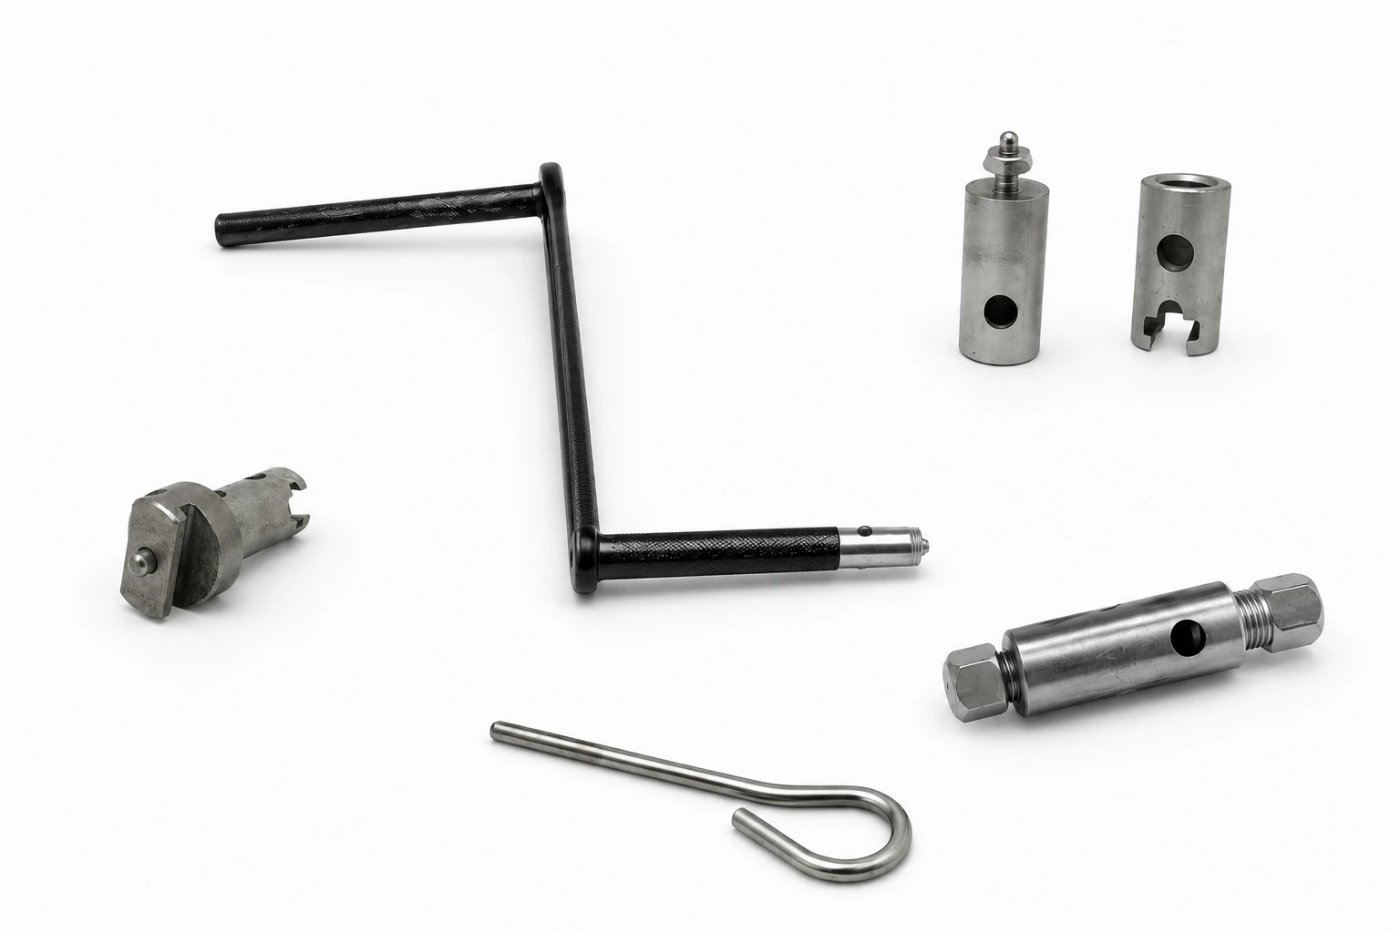
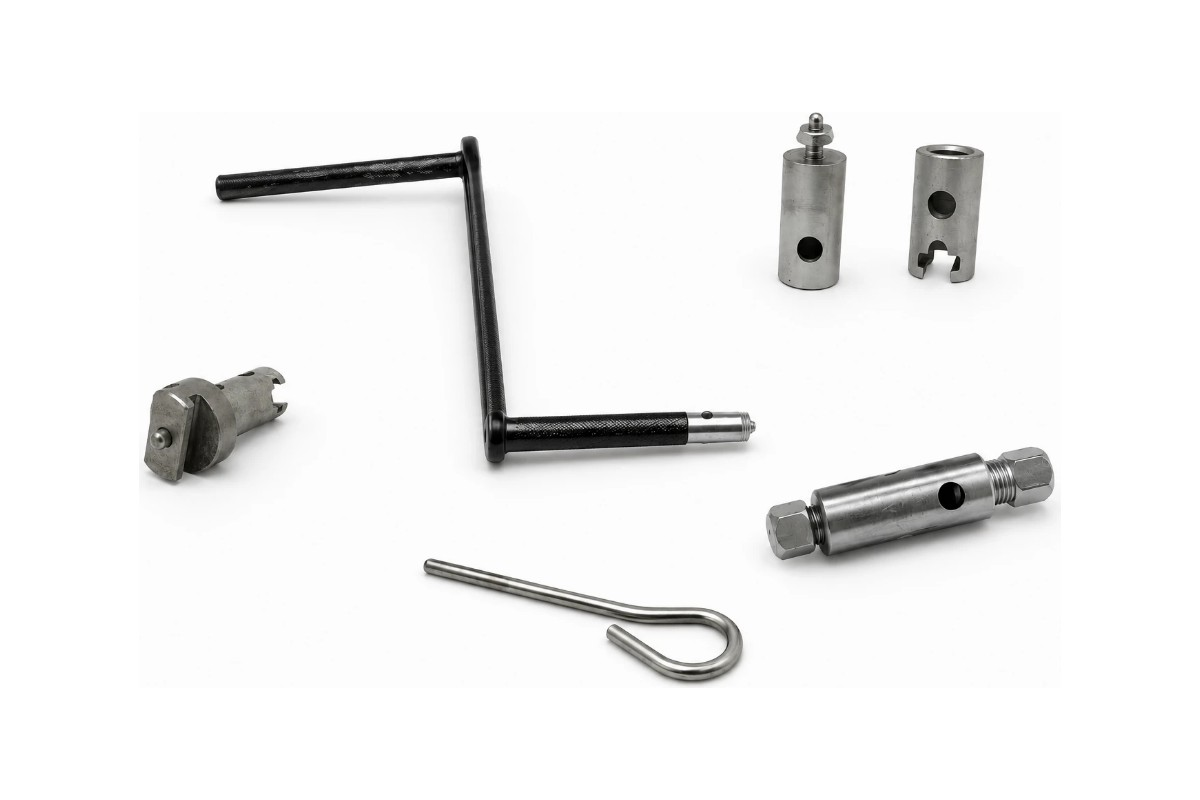
Melhorias: WhatsApp com mensagem pronta, barra de topo e fotos padronizadas
- Todos os links de WhatsApp abrem com mensagem pré-preenchida
- Adiciona barra de topo (telefone, horário, e-mail) que recolhe ao rolar;
  oculta no mobile
- Padroniza o enquadramento das 4 fotos de produto (recorte por conteúdo e
  recentralização em canvas uniforme)
- Aplica também nas páginas de produto

Claude-Session: https://claude.ai/code/session_01BUUK4AvKAcJuzsJsvTyh2a

diff --git a/Seção_Varetas em aço cromo-silício.html b/Seção_Varetas em aço cromo-silício.html
@@ -34,6 +34,17 @@
 
     <!-- HEADER -->
     <header id="header">
+        <div class="top-bar">
+            <div class="container top-bar-inner">
+                <div class="top-bar-info">
+                    <a href="tel:+5511958462251"><i class="fa-solid fa-phone"></i> (11) 95846-2251</a>
+                    <span><i class="fa-solid fa-clock"></i> Seg a Sex, 8h às 18h</span>
+                </div>
+                <div class="top-bar-info">
+                    <a href="mailto:contato@varetasbrasil.com.br"><i class="fa-solid fa-envelope"></i> contato@varetasbrasil.com.br</a>
+                </div>
+            </div>
+        </div>
         <div class="container header-container">
             <a href="index.html#home" class="logo">
                 <img src="img/logo.png" alt="Logo Varetas Brasil">
@@ -49,7 +60,7 @@
                 </ul>
             </nav>
             <div class="header-cta">
-                <a href="https://wa.me/5511958462251" target="_blank" rel="noopener" class="btn btn-primary">
+                <a href="https://wa.me/5511958462251?text=Ol%C3%A1!%20Vim%20pelo%20site%20da%20Varetas%20Brasil%20e%20gostaria%20de%20mais%20informa%C3%A7%C3%B5es." target="_blank" rel="noopener" class="btn btn-primary">
                     <i class="fa-brands fa-whatsapp"></i> Falar no WhatsApp
                 </a>
                 <div class="mobile-toggle" id="mobile-toggle">
@@ -85,7 +96,7 @@
                     <li><i class="fa-solid fa-circle-check"></i> Compatíveis com nossas ponteiras e acessórios</li>
                 </ul>
                 <div class="product-actions">
-                    <a href="https://wa.me/5511958462251" target="_blank" rel="noopener" class="btn btn-primary">
+                    <a href="https://wa.me/5511958462251?text=Ol%C3%A1!%20Vim%20pelo%20site%20da%20Varetas%20Brasil%20e%20gostaria%20de%20mais%20informa%C3%A7%C3%B5es." target="_blank" rel="noopener" class="btn btn-primary">
                         <i class="fa-brands fa-whatsapp"></i> Solicitar orçamento
                     </a>
                     <a href="index.html#produtos" class="btn btn-outline">
@@ -130,7 +141,7 @@
         <div class="container">
             <h2 class="reveal">Precisa de mais informações?</h2>
             <p class="reveal">Fale com nossa equipe técnica e receba orientação para escolher a melhor solução para o seu serviço.</p>
-            <a href="https://wa.me/5511958462251" target="_blank" rel="noopener" class="btn btn-primary reveal">
+            <a href="https://wa.me/5511958462251?text=Ol%C3%A1!%20Vim%20pelo%20site%20da%20Varetas%20Brasil%20e%20gostaria%20de%20mais%20informa%C3%A7%C3%B5es." target="_blank" rel="noopener" class="btn btn-primary reveal">
                 <i class="fa-brands fa-whatsapp"></i> Falar no WhatsApp
             </a>
         </div>
@@ -174,7 +185,7 @@
                     <div class="footer-logo">Varetas <span>Brasil</span></div>
                     <p class="footer-about">Soluções profissionais para desobstrução e saneamento com qualidade, resistência e confiança que você pode contar.</p>
                     <div class="social-icons">
-                        <a href="https://wa.me/5511958462251" target="_blank" rel="noopener" aria-label="WhatsApp"><i class="fa-brands fa-whatsapp"></i></a>
+                        <a href="https://wa.me/5511958462251?text=Ol%C3%A1!%20Vim%20pelo%20site%20da%20Varetas%20Brasil%20e%20gostaria%20de%20mais%20informa%C3%A7%C3%B5es." target="_blank" rel="noopener" aria-label="WhatsApp"><i class="fa-brands fa-whatsapp"></i></a>
                         <a href="#" aria-label="Instagram"><i class="fa-brands fa-instagram"></i></a>
                         <a href="#" aria-label="Facebook"><i class="fa-brands fa-facebook-f"></i></a>
                         <a href="#" aria-label="LinkedIn"><i class="fa-brands fa-linkedin-in"></i></a>
@@ -204,7 +215,7 @@
                     <h4>Fale Conosco</h4>
                     <div class="footer-contact-item"><i class="fa-solid fa-phone"></i> (11) 95846-2251</div>
                     <div class="footer-contact-item"><i class="fa-solid fa-envelope"></i> contato@varetasbrasil.com.br</div>
-                    <a href="https://wa.me/5511958462251" target="_blank" rel="noopener" class="btn btn-primary" style="margin-top:10px;">
+                    <a href="https://wa.me/5511958462251?text=Ol%C3%A1!%20Vim%20pelo%20site%20da%20Varetas%20Brasil%20e%20gostaria%20de%20mais%20informa%C3%A7%C3%B5es." target="_blank" rel="noopener" class="btn btn-primary" style="margin-top:10px;">
                         <i class="fa-brands fa-whatsapp"></i> Falar no WhatsApp
                     </a>
                 </div>

diff --git a/Seção_Kit completo.html b/Seção_Kit completo.html
@@ -34,6 +34,17 @@
 
     <!-- HEADER -->
     <header id="header">
+        <div class="top-bar">
+            <div class="container top-bar-inner">
+                <div class="top-bar-info">
+                    <a href="tel:+5511958462251"><i class="fa-solid fa-phone"></i> (11) 95846-2251</a>
+                    <span><i class="fa-solid fa-clock"></i> Seg a Sex, 8h às 18h</span>
+                </div>
+                <div class="top-bar-info">
+                    <a href="mailto:contato@varetasbrasil.com.br"><i class="fa-solid fa-envelope"></i> contato@varetasbrasil.com.br</a>
+                </div>
+            </div>
+        </div>
         <div class="container header-container">
             <a href="index.html#home" class="logo">
                 <img src="img/logo.png" alt="Logo Varetas Brasil">
@@ -49,7 +60,7 @@
                 </ul>
             </nav>
             <div class="header-cta">
-                <a href="https://wa.me/5511958462251" target="_blank" rel="noopener" class="btn btn-primary">
+                <a href="https://wa.me/5511958462251?text=Ol%C3%A1!%20Vim%20pelo%20site%20da%20Varetas%20Brasil%20e%20gostaria%20de%20mais%20informa%C3%A7%C3%B5es." target="_blank" rel="noopener" class="btn btn-primary">
                     <i class="fa-brands fa-whatsapp"></i> Falar no WhatsApp
                 </a>
                 <div class="mobile-toggle" id="mobile-toggle">
@@ -85,7 +96,7 @@
                     <li><i class="fa-solid fa-circle-check"></i> Melhor custo-benefício para o profissional</li>
                 </ul>
                 <div class="product-actions">
-                    <a href="https://wa.me/5511958462251" target="_blank" rel="noopener" class="btn btn-primary">
+                    <a href="https://wa.me/5511958462251?text=Ol%C3%A1!%20Vim%20pelo%20site%20da%20Varetas%20Brasil%20e%20gostaria%20de%20mais%20informa%C3%A7%C3%B5es." target="_blank" rel="noopener" class="btn btn-primary">
                         <i class="fa-brands fa-whatsapp"></i> Solicitar orçamento
                     </a>
                     <a href="index.html#produtos" class="btn btn-outline">
@@ -130,7 +141,7 @@
         <div class="container">
             <h2 class="reveal">Precisa de mais informações?</h2>
             <p class="reveal">Fale com nossa equipe técnica e receba orientação para escolher a melhor solução para o seu serviço.</p>
-            <a href="https://wa.me/5511958462251" target="_blank" rel="noopener" class="btn btn-primary reveal">
+            <a href="https://wa.me/5511958462251?text=Ol%C3%A1!%20Vim%20pelo%20site%20da%20Varetas%20Brasil%20e%20gostaria%20de%20mais%20informa%C3%A7%C3%B5es." target="_blank" rel="noopener" class="btn btn-primary reveal">
                 <i class="fa-brands fa-whatsapp"></i> Falar no WhatsApp
             </a>
         </div>
@@ -174,7 +185,7 @@
                     <div class="footer-logo">Varetas <span>Brasil</span></div>
                     <p class="footer-about">Soluções profissionais para desobstrução e saneamento com qualidade, resistência e confiança que você pode contar.</p>
                     <div class="social-icons">
-                        <a href="https://wa.me/5511958462251" target="_blank" rel="noopener" aria-label="WhatsApp"><i class="fa-brands fa-whatsapp"></i></a>
+                        <a href="https://wa.me/5511958462251?text=Ol%C3%A1!%20Vim%20pelo%20site%20da%20Varetas%20Brasil%20e%20gostaria%20de%20mais%20informa%C3%A7%C3%B5es." target="_blank" rel="noopener" aria-label="WhatsApp"><i class="fa-brands fa-whatsapp"></i></a>
                         <a href="#" aria-label="Instagram"><i class="fa-brands fa-instagram"></i></a>
                         <a href="#" aria-label="Facebook"><i class="fa-brands fa-facebook-f"></i></a>
                         <a href="#" aria-label="LinkedIn"><i class="fa-brands fa-linkedin-in"></i></a>
@@ -204,7 +215,7 @@
                     <h4>Fale Conosco</h4>
                     <div class="footer-contact-item"><i class="fa-solid fa-phone"></i> (11) 95846-2251</div>
                     <div class="footer-contact-item"><i class="fa-solid fa-envelope"></i> contato@varetasbrasil.com.br</div>
-                    <a href="https://wa.me/5511958462251" target="_blank" rel="noopener" class="btn btn-primary" style="margin-top:10px;">
+                    <a href="https://wa.me/5511958462251?text=Ol%C3%A1!%20Vim%20pelo%20site%20da%20Varetas%20Brasil%20e%20gostaria%20de%20mais%20informa%C3%A7%C3%B5es." target="_blank" rel="noopener" class="btn btn-primary" style="margin-top:10px;">
                         <i class="fa-brands fa-whatsapp"></i> Falar no WhatsApp
                     </a>
                 </div>

diff --git a/Seção_Acessórios.html b/Seção_Acessórios.html
@@ -34,6 +34,17 @@
 
     <!-- HEADER -->
     <header id="header">
+        <div class="top-bar">
+            <div class="container top-bar-inner">
+                <div class="top-bar-info">
+                    <a href="tel:+5511958462251"><i class="fa-solid fa-phone"></i> (11) 95846-2251</a>
+                    <span><i class="fa-solid fa-clock"></i> Seg a Sex, 8h às 18h</span>
+                </div>
+                <div class="top-bar-info">
+                    <a href="mailto:contato@varetasbrasil.com.br"><i class="fa-solid fa-envelope"></i> contato@varetasbrasil.com.br</a>
+                </div>
+            </div>
+        </div>
         <div class="container header-container">
             <a href="index.html#home" class="logo">
                 <img src="img/logo.png" alt="Logo Varetas Brasil">
@@ -49,7 +60,7 @@
                 </ul>
             </nav>
             <div class="header-cta">
-                <a href="https://wa.me/5511958462251" target="_blank" rel="noopener" class="btn btn-primary">
+                <a href="https://wa.me/5511958462251?text=Ol%C3%A1!%20Vim%20pelo%20site%20da%20Varetas%20Brasil%20e%20gostaria%20de%20mais%20informa%C3%A7%C3%B5es." target="_blank" rel="noopener" class="btn btn-primary">
                     <i class="fa-brands fa-whatsapp"></i> Falar no WhatsApp
                 </a>
                 <div class="mobile-toggle" id="mobile-toggle">
@@ -85,7 +96,7 @@
                     <li><i class="fa-solid fa-circle-check"></i> Itens pensados para o dia a dia em campo</li>
                 </ul>
                 <div class="product-actions">
-                    <a href="https://wa.me/5511958462251" target="_blank" rel="noopener" class="btn btn-primary">
+                    <a href="https://wa.me/5511958462251?text=Ol%C3%A1!%20Vim%20pelo%20site%20da%20Varetas%20Brasil%20e%20gostaria%20de%20mais%20informa%C3%A7%C3%B5es." target="_blank" rel="noopener" class="btn btn-primary">
                         <i class="fa-brands fa-whatsapp"></i> Solicitar orçamento
                     </a>
                     <a href="index.html#produtos" class="btn btn-outline">
@@ -130,7 +141,7 @@
         <div class="container">
             <h2 class="reveal">Precisa de mais informações?</h2>
             <p class="reveal">Fale com nossa equipe técnica e receba orientação para escolher a melhor solução para o seu serviço.</p>
-            <a href="https://wa.me/5511958462251" target="_blank" rel="noopener" class="btn btn-primary reveal">
+            <a href="https://wa.me/5511958462251?text=Ol%C3%A1!%20Vim%20pelo%20site%20da%20Varetas%20Brasil%20e%20gostaria%20de%20mais%20informa%C3%A7%C3%B5es." target="_blank" rel="noopener" class="btn btn-primary reveal">
                 <i class="fa-brands fa-whatsapp"></i> Falar no WhatsApp
             </a>
         </div>
@@ -174,7 +185,7 @@
                     <div class="footer-logo">Varetas <span>Brasil</span></div>
                     <p class="footer-about">Soluções profissionais para desobstrução e saneamento com qualidade, resistência e confiança que você pode contar.</p>
                     <div class="social-icons">
-                        <a href="https://wa.me/5511958462251" target="_blank" rel="noopener" aria-label="WhatsApp"><i class="fa-brands fa-whatsapp"></i></a>
+                        <a href="https://wa.me/5511958462251?text=Ol%C3%A1!%20Vim%20pelo%20site%20da%20Varetas%20Brasil%20e%20gostaria%20de%20mais%20informa%C3%A7%C3%B5es." target="_blank" rel="noopener" aria-label="WhatsApp"><i class="fa-brands fa-whatsapp"></i></a>
                         <a href="#" aria-label="Instagram"><i class="fa-brands fa-instagram"></i></a>
                         <a href="#" aria-label="Facebook"><i class="fa-brands fa-facebook-f"></i></a>
                         <a href="#" aria-label="LinkedIn"><i class="fa-brands fa-linkedin-in"></i></a>
@@ -204,7 +215,7 @@
                     <h4>Fale Conosco</h4>
                     <div class="footer-contact-item"><i class="fa-solid fa-phone"></i> (11) 95846-2251</div>
                     <div class="footer-contact-item"><i class="fa-solid fa-envelope"></i> contato@varetasbrasil.com.br</div>
-                    <a href="https://wa.me/5511958462251" target="_blank" rel="noopener" class="btn btn-primary" style="margin-top:10px;">
+                    <a href="https://wa.me/5511958462251?text=Ol%C3%A1!%20Vim%20pelo%20site%20da%20Varetas%20Brasil%20e%20gostaria%20de%20mais%20informa%C3%A7%C3%B5es." target="_blank" rel="noopener" class="btn btn-primary" style="margin-top:10px;">
                         <i class="fa-brands fa-whatsapp"></i> Falar no WhatsApp
                     </a>
                 </div>

diff --git a/Seção_Ponteiras.html b/Seção_Ponteiras.html
@@ -34,6 +34,17 @@
 
     <!-- HEADER -->
     <header id="header">
+        <div class="top-bar">
+            <div class="container top-bar-inner">
+                <div class="top-bar-info">
+                    <a href="tel:+5511958462251"><i class="fa-solid fa-phone"></i> (11) 95846-2251</a>
+                    <span><i class="fa-solid fa-clock"></i> Seg a Sex, 8h às 18h</span>
+                </div>
+                <div class="top-bar-info">
+                    <a href="mailto:contato@varetasbrasil.com.br"><i class="fa-solid fa-envelope"></i> contato@varetasbrasil.com.br</a>
+                </div>
+            </div>
+        </div>
         <div class="container header-container">
             <a href="index.html#home" class="logo">
                 <img src="img/logo.png" alt="Logo Varetas Brasil">
@@ -49,7 +60,7 @@
                 </ul>
             </nav>
             <div class="header-cta">
-                <a href="https://wa.me/5511958462251" target="_blank" rel="noopener" class="btn btn-primary">
+                <a href="https://wa.me/5511958462251?text=Ol%C3%A1!%20Vim%20pelo%20site%20da%20Varetas%20Brasil%20e%20gostaria%20de%20mais%20informa%C3%A7%C3%B5es." target="_blank" rel="noopener" class="btn btn-primary">
                     <i class="fa-brands fa-whatsapp"></i> Falar no WhatsApp
                 </a>
                 <div class="mobile-toggle" id="mobile-toggle">
@@ -85,7 +96,7 @@
                     <li><i class="fa-solid fa-circle-check"></i> Aço resistente ao desgaste</li>
                 </ul>
                 <div class="product-actions">
-                    <a href="https://wa.me/5511958462251" target="_blank" rel="noopener" class="btn btn-primary">
+                    <a href="https://wa.me/5511958462251?text=Ol%C3%A1!%20Vim%20pelo%20site%20da%20Varetas%20Brasil%20e%20gostaria%20de%20mais%20informa%C3%A7%C3%B5es." target="_blank" rel="noopener" class="btn btn-primary">
                         <i class="fa-brands fa-whatsapp"></i> Solicitar orçamento
                     </a>
                     <a href="index.html#produtos" class="btn btn-outline">
@@ -130,7 +141,7 @@
         <div class="container">
             <h2 class="reveal">Precisa de mais informações?</h2>
             <p class="reveal">Fale com nossa equipe técnica e receba orientação para escolher a melhor solução para o seu serviço.</p>
-            <a href="https://wa.me/5511958462251" target="_blank" rel="noopener" class="btn btn-primary reveal">
+            <a href="https://wa.me/5511958462251?text=Ol%C3%A1!%20Vim%20pelo%20site%20da%20Varetas%20Brasil%20e%20gostaria%20de%20mais%20informa%C3%A7%C3%B5es." target="_blank" rel="noopener" class="btn btn-primary reveal">
                 <i class="fa-brands fa-whatsapp"></i> Falar no WhatsApp
             </a>
         </div>
@@ -174,7 +185,7 @@
                     <div class="footer-logo">Varetas <span>Brasil</span></div>
                     <p class="footer-about">Soluções profissionais para desobstrução e saneamento com qualidade, resistência e confiança que você pode contar.</p>
                     <div class="social-icons">
-                        <a href="https://wa.me/5511958462251" target="_blank" rel="noopener" aria-label="WhatsApp"><i class="fa-brands fa-whatsapp"></i></a>
+                        <a href="https://wa.me/5511958462251?text=Ol%C3%A1!%20Vim%20pelo%20site%20da%20Varetas%20Brasil%20e%20gostaria%20de%20mais%20informa%C3%A7%C3%B5es." target="_blank" rel="noopener" aria-label="WhatsApp"><i class="fa-brands fa-whatsapp"></i></a>
                         <a href="#" aria-label="Instagram"><i class="fa-brands fa-instagram"></i></a>
                         <a href="#" aria-label="Facebook"><i class="fa-brands fa-facebook-f"></i></a>
                         <a href="#" aria-label="LinkedIn"><i class="fa-brands fa-linkedin-in"></i></a>
@@ -204,7 +215,7 @@
                     <h4>Fale Conosco</h4>
                     <div class="footer-contact-item"><i class="fa-solid fa-phone"></i> (11) 95846-2251</div>
                     <div class="footer-contact-item"><i class="fa-solid fa-envelope"></i> contato@varetasbrasil.com.br</div>
-                    <a href="https://wa.me/5511958462251" target="_blank" rel="noopener" class="btn btn-primary" style="margin-top:10px;">
+                    <a href="https://wa.me/5511958462251?text=Ol%C3%A1!%20Vim%20pelo%20site%20da%20Varetas%20Brasil%20e%20gostaria%20de%20mais%20informa%C3%A7%C3%B5es." target="_blank" rel="noopener" class="btn btn-primary" style="margin-top:10px;">
                         <i class="fa-brands fa-whatsapp"></i> Falar no WhatsApp
                     </a>
                 </div>

diff --git a/index.html b/index.html
@@ -37,6 +37,18 @@
 
     <!-- ================= HEADER ================= -->
     <header id="header">
+        <div class="top-bar">
+            <div class="container top-bar-inner">
+                <div class="top-bar-info">
+                    <a href="tel:+5511958462251"><i class="fa-solid fa-phone"></i> (11) 95846-2251</a>
+                    <span><i class="fa-solid fa-clock"></i> Seg a Sex, 8h às 18h</span>
+                </div>
+                <div class="top-bar-info">
+                    <a href="mailto:contato@varetasbrasil.com.br"><i class="fa-solid fa-envelope"></i>
+                        contato@varetasbrasil.com.br</a>
+                </div>
+            </div>
+        </div>
         <div class="container header-container">
             <a href="#home" class="logo">
                 <img src="img/logo.png" alt="Logo Varetas Brasil">
@@ -54,7 +66,7 @@
             </nav>
 
             <div class="header-cta">
-                <a href="https://wa.me/5511958462251" target="_blank" rel="noopener" class="btn btn-primary">
+                <a href="https://wa.me/5511958462251?text=Ol%C3%A1!%20Vim%20pelo%20site%20da%20Varetas%20Brasil%20e%20gostaria%20de%20mais%20informa%C3%A7%C3%B5es." target="_blank" rel="noopener" class="btn btn-primary">
                     <i class="fa-brands fa-whatsapp"></i> Falar no WhatsApp
                 </a>
                 <div class="mobile-toggle" id="mobile-toggle">
@@ -76,7 +88,7 @@
                 <div class="hero-buttons">
                     <a href="#contato" class="btn btn-primary"><i class="fa-regular fa-envelope"></i> Solicitar
                         orçamento</a>
-                    <a href="https://wa.me/5511958462251" target="_blank" rel="noopener" class="btn btn-outline"><i
+                    <a href="https://wa.me/5511958462251?text=Ol%C3%A1!%20Vim%20pelo%20site%20da%20Varetas%20Brasil%20e%20gostaria%20de%20mais%20informa%C3%A7%C3%B5es." target="_blank" rel="noopener" class="btn btn-outline"><i
                             class="fa-brands fa-whatsapp"></i> Falar no WhatsApp</a>
                 </div>
             </div>
@@ -296,7 +308,7 @@
                     <p class="footer-about">Soluções profissionais para desobstrução e saneamento com qualidade,
                         resistência e confiança que você pode contar.</p>
                     <div class="social-icons">
-                        <a href="https://wa.me/5511958462251" target="_blank" rel="noopener" aria-label="WhatsApp"><i
+                        <a href="https://wa.me/5511958462251?text=Ol%C3%A1!%20Vim%20pelo%20site%20da%20Varetas%20Brasil%20e%20gostaria%20de%20mais%20informa%C3%A7%C3%B5es." target="_blank" rel="noopener" aria-label="WhatsApp"><i
                                 class="fa-brands fa-whatsapp"></i></a>
                         <a href="#" aria-label="Instagram"><i class="fa-brands fa-instagram"></i></a>
                         <a href="#" aria-label="Facebook"><i class="fa-brands fa-facebook-f"></i></a>
@@ -337,7 +349,7 @@
                     <div class="footer-contact-item">
                         <i class="fa-solid fa-clock"></i> Seg a Sex, das 8h às 18h
                     </div>
-                    <a href="https://wa.me/5511958462251" target="_blank" rel="noopener"
+                    <a href="https://wa.me/5511958462251?text=Ol%C3%A1!%20Vim%20pelo%20site%20da%20Varetas%20Brasil%20e%20gostaria%20de%20mais%20informa%C3%A7%C3%B5es." target="_blank" rel="noopener"
                         class="btn btn-primary" style="margin-top:14px;">
                         <i class="fa-brands fa-whatsapp"></i> Falar no WhatsApp
                     </a>

diff --git a/css/styles.css b/css/styles.css
@@ -246,9 +246,58 @@ header {
     transition: var(--transition);
 }
 
+/* ---- barra de topo (telefone / horário / e-mail) ---- */
+.top-bar {
+    background-color: var(--deep-green);
+    border-bottom: 1px solid rgba(255, 255, 255, 0.08);
+    font-size: 0.8rem;
+    overflow: hidden;
+    max-height: 44px;
+    transition: max-height 0.35s var(--ease-out), opacity 0.3s var(--ease-out);
+}
+
+.top-bar-inner {
+    display: flex;
+    justify-content: space-between;
+    align-items: center;
+    height: 42px;
+    color: #cdd8d3;
+}
+
+.top-bar-info {
+    display: flex;
+    align-items: center;
+    gap: 22px;
+}
+
+.top-bar-info a,
+.top-bar-info span {
+    display: inline-flex;
+    align-items: center;
+    gap: 8px;
+    color: #cdd8d3;
+    transition: color 0.25s ease;
+}
+
+.top-bar-info a:hover {
+    color: var(--gold);
+}
+
+.top-bar-info i {
+    color: var(--gold);
+    font-size: 0.85rem;
+}
+
 /* estado ao rolar a página (adicionado via JS) */
 header.scrolled {
     box-shadow: 0 6px 20px rgba(0, 0, 0, 0.25);
+}
+
+/* recolhe a barra de topo ao rolar */
+header.scrolled .top-bar {
+    max-height: 0;
+    opacity: 0;
+    border-color: transparent;
 }
 
 header.scrolled .header-container {
@@ -1246,6 +1295,10 @@ footer {
     .hero-container {
         flex-direction: column;
         text-align: center;
+    }
+
+    .top-bar {
+        display: none;
     }
 
     .hero-content {
